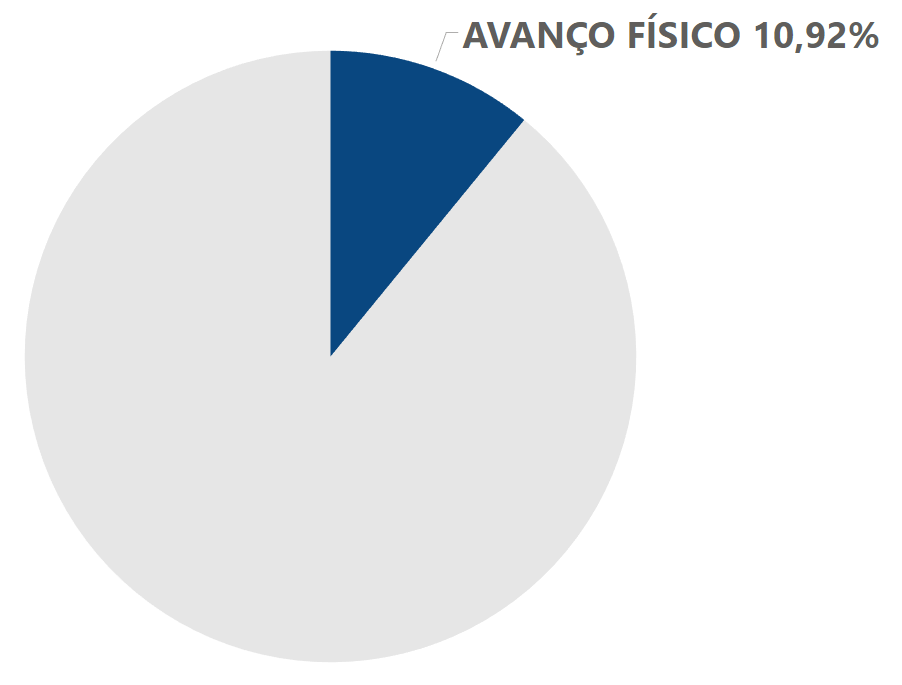
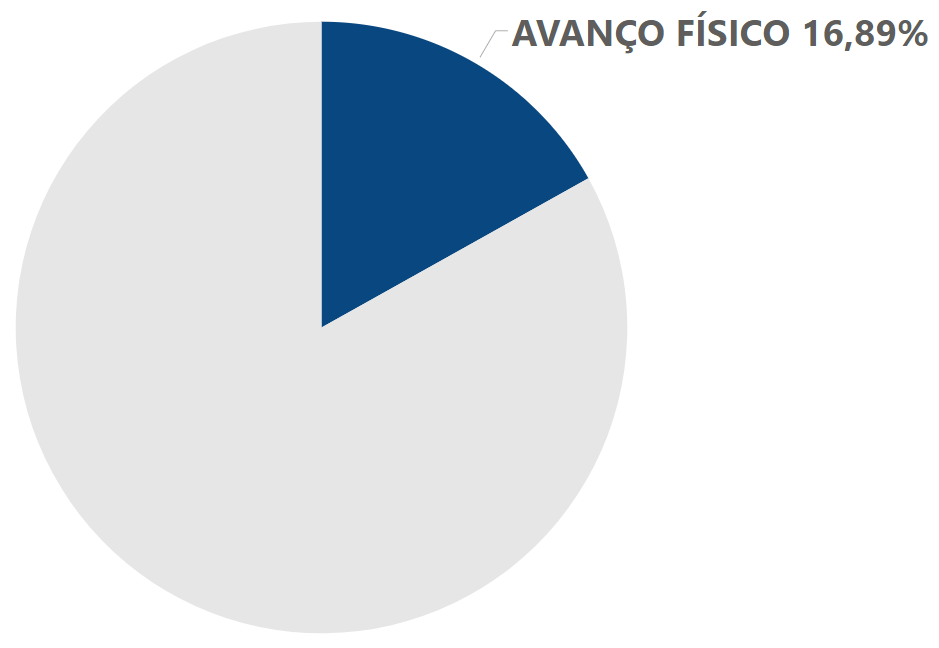
UPDATE MAPA

diff --git a/script.js b/script.js
@@ -16,7 +16,7 @@ var marker1 = L.marker([-3.795764, -38.534455]).addTo(map);
 
 var popupContent1 = '<div class="popup-content">' +
   '<img src="\FORTALEZA.png">' +
-  '<p class="popup-text"><strong>SUB-BACIAS CE-07_08_09_ETE COCÓ</strong><br><br>CONTRATO: 048/2022<br>AVANÇO FÍSICO: 10,92%<br>AVANÇO FINANCEIRO: 15,34%<br><br>CLIQUE PARA MAIS INFORMAÇÕES...</p>' +
+  '<p class="popup-text"><strong>SUB-BACIAS CE-07_08_09_ETE COCÓ</strong><br><br>CONTRATO: 048/2022<br>AVANÇO FÍSICO: 16,89%<br>AVANÇO FINANCEIRO: 22,24%<br><br>CLIQUE PARA MAIS INFORMAÇÕES...</p>' +
   '</div>';
   
 
@@ -42,7 +42,7 @@ marker1.on('click', function(e) {
 
 // marker2
 var marker2 = L.marker([-4.088785, -38.500393]).addTo(map);
-marker2.bindPopup('<div class="popup-content"><img src="\HORIZONTE.png"><p class="popup-text"><strong>SAAI HORIZONTE, PACAJUS E CHOROZINHO </strong> <br><br> CONTRATO: 039/2022 <br> AVANÇO FÍSICO: 18,49% <br> AVANÇO FINANCEIRO:  25,20% <br><BR>CLIQUE PARA MAIS INFORMAÇÕES...</p></div>');
+marker2.bindPopup('<div class="popup-content"><img src="\HORIZONTE.png"><p class="popup-text"><strong>SAAI HORIZONTE, PACAJUS E CHOROZINHO </strong> <br><br> CONTRATO: 039/2022 <br> AVANÇO FÍSICO: 27,77% <br> AVANÇO FINANCEIRO:  29,21% <br><BR>CLIQUE PARA MAIS INFORMAÇÕES...</p></div>');
 
 marker2.on('mouseover', function(e) {
   this.getElement().classList.add('marker-neon');
@@ -59,7 +59,7 @@ marker2.on('click', function(e) {
 
 // marker3
 var marker3 = L.marker([-3.81323, -38.49515]).addTo(map);
-marker3.bindPopup('<div class="popup-content"><img src="\PERDAS.png"><p class="popup-text"><strong>REDUÇÃO DE PERDAS CASTELÃO E MESSEJANA </strong> <br><br> CONTRATO: CTR139/2021 <br> AVANÇO FÍSICO: 49,15% <br> AVANÇO FINANCEIRO: 47,98% <br><BR>CLIQUE PARA MAIS INFORMAÇÕES...</p></div>');
+marker3.bindPopup('<div class="popup-content"><img src="\PERDAS.png"><p class="popup-text"><strong>REDUÇÃO DE PERDAS CASTELÃO E MESSEJANA </strong> <br><br> CONTRATO: CTR139/2021 <br> AVANÇO FÍSICO: 59,71% <br> AVANÇO FINANCEIRO: 58,40% <br><BR>CLIQUE PARA MAIS INFORMAÇÕES...</p></div>');
 
 marker3.on('mouseover', function(e) {
   this.getElement().classList.add('marker-neon');
